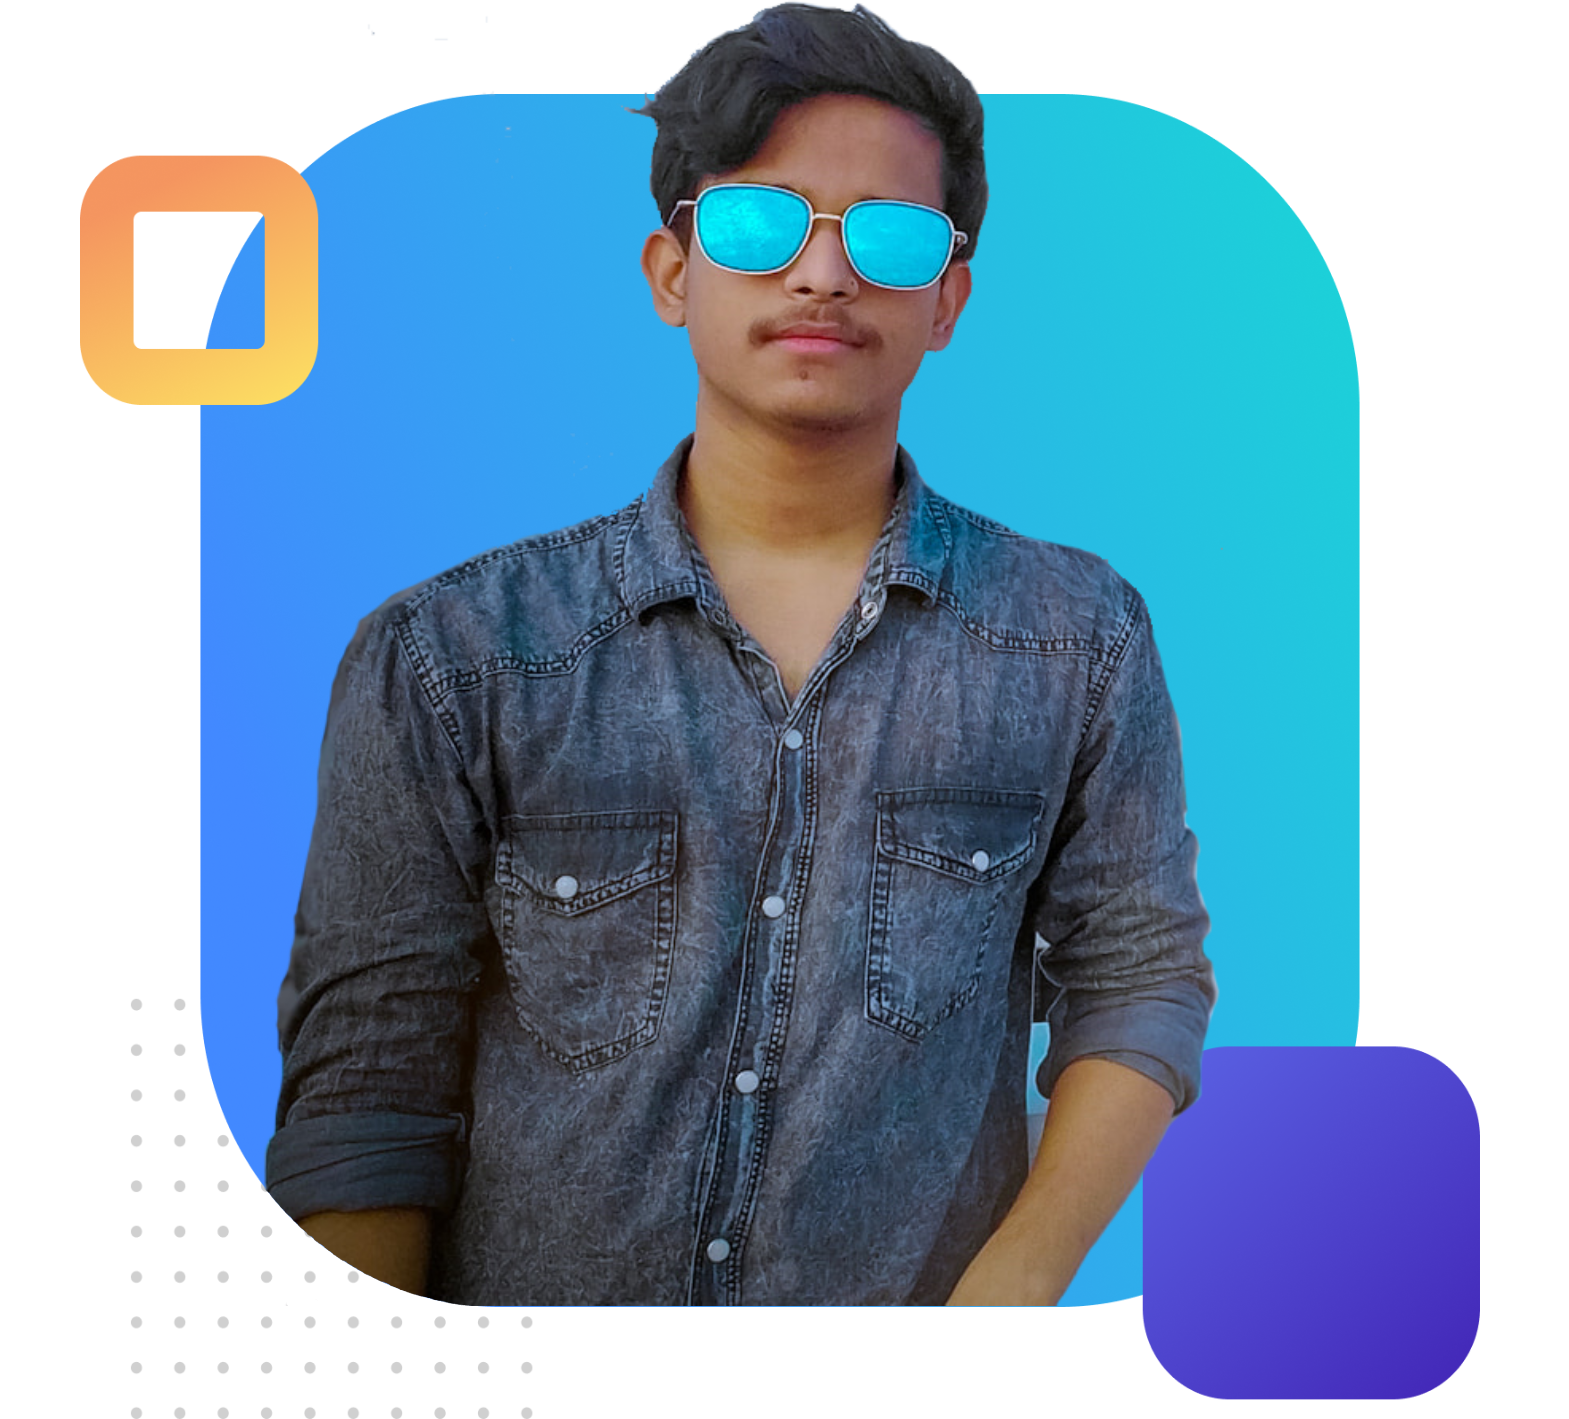
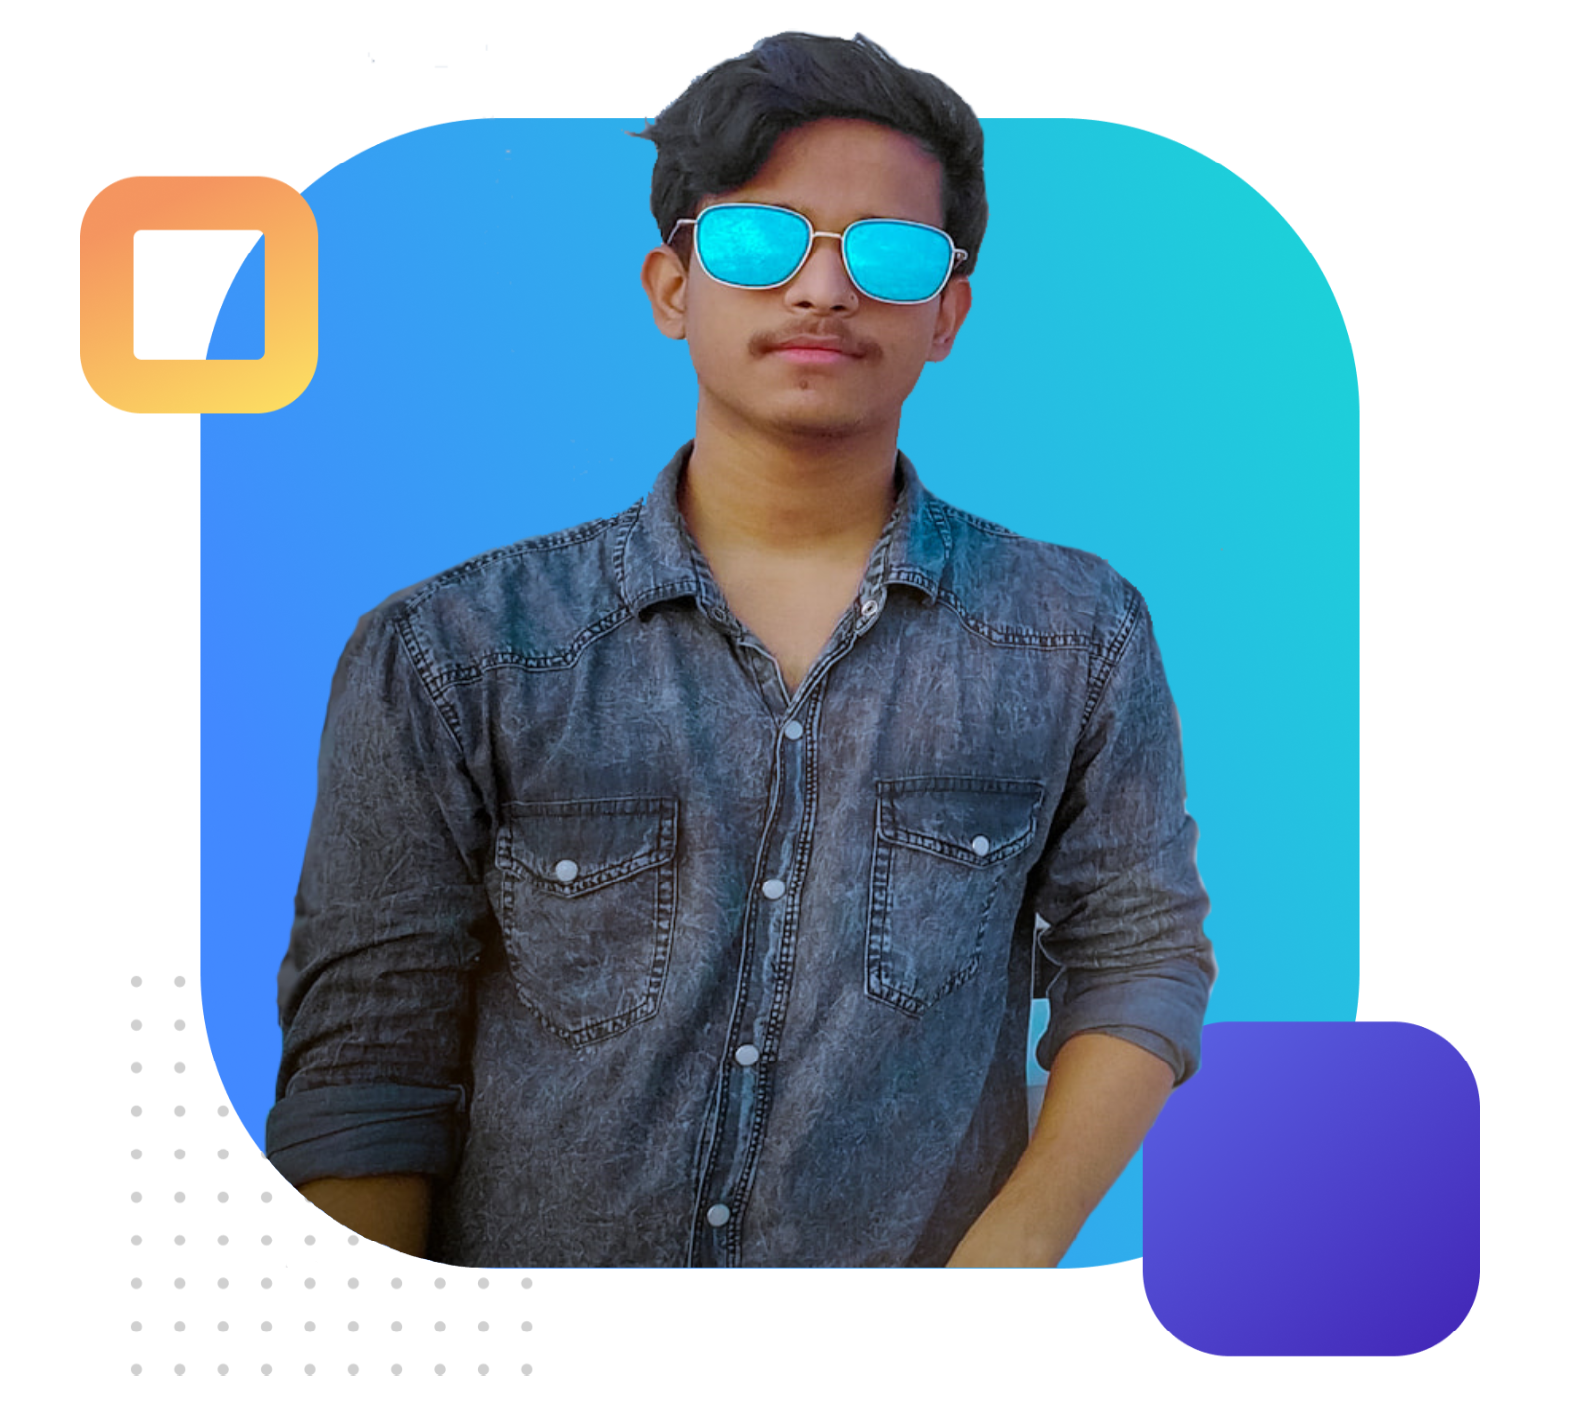
some change css

diff --git a/css/style.css b/css/style.css
@@ -40,7 +40,7 @@ p{
     margin-top: 10px;
     margin-bottom: 40px;
     color: rgb(73, 73, 73);
-    width: 60%;
+    width: 90%;
 }
 img{
     width: 100%;
@@ -50,7 +50,7 @@ img{
     color: #fbd762;
 }
 #header-section, #about-section{
-    margin: 10px 60px;
+    margin: 10px 80px;
 }
 .btn{
     text-decoration: none;
@@ -66,21 +66,16 @@ img{
     -o-border-radius: 5px;
 }
 .row{
-    margin: 20px 0;
+    height: 400px;
 }
 .col{
-    width: 45%;
+    width: 40%;
     float: left;
 }
-.about-header{
-    margin-top: 50px;
-    text-align: justify;
+.col2{
     margin-left: 100px;
-    width: 40%;
 }
-.about-para{
-    width: 100%;
-}
-.abount-img{
-    width: 90%;
+.about-header{
+    margin-top: 70px;
+    margin-left: 150px;
 }

diff --git a/index.html b/index.html
@@ -15,7 +15,7 @@
 
 <body>
     <section id="header-section">
-        <div class="row">
+        <div class="nav-menu">
             <div class="menu">
                 <ul>
                     <li><a href="#about-section">About</a></li>
@@ -37,6 +37,7 @@
             </div>
         </div>
     </section>
+
 
     <section id="about-section">
         <div class="row">
